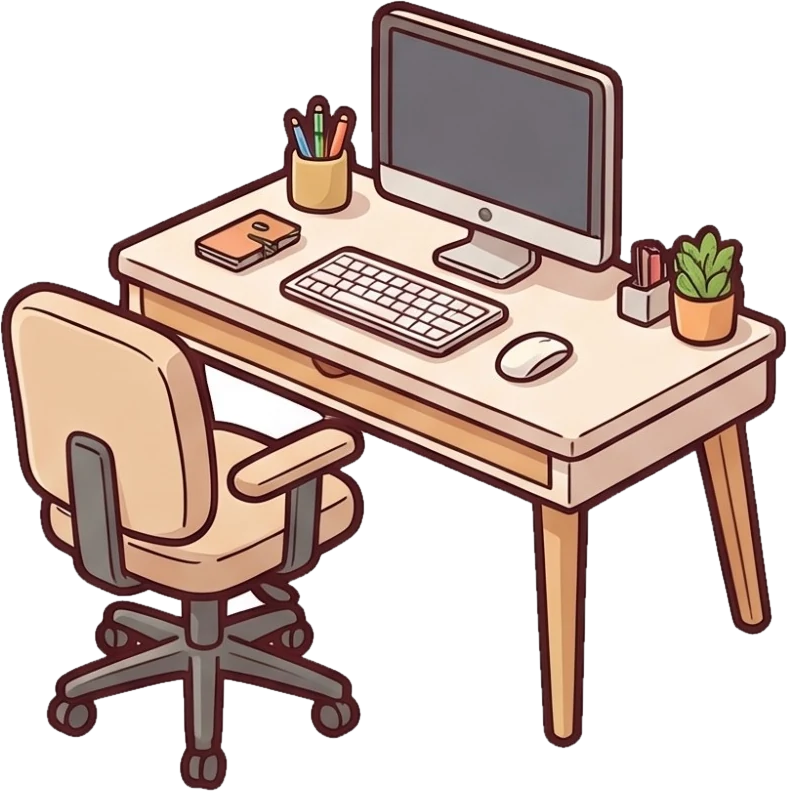
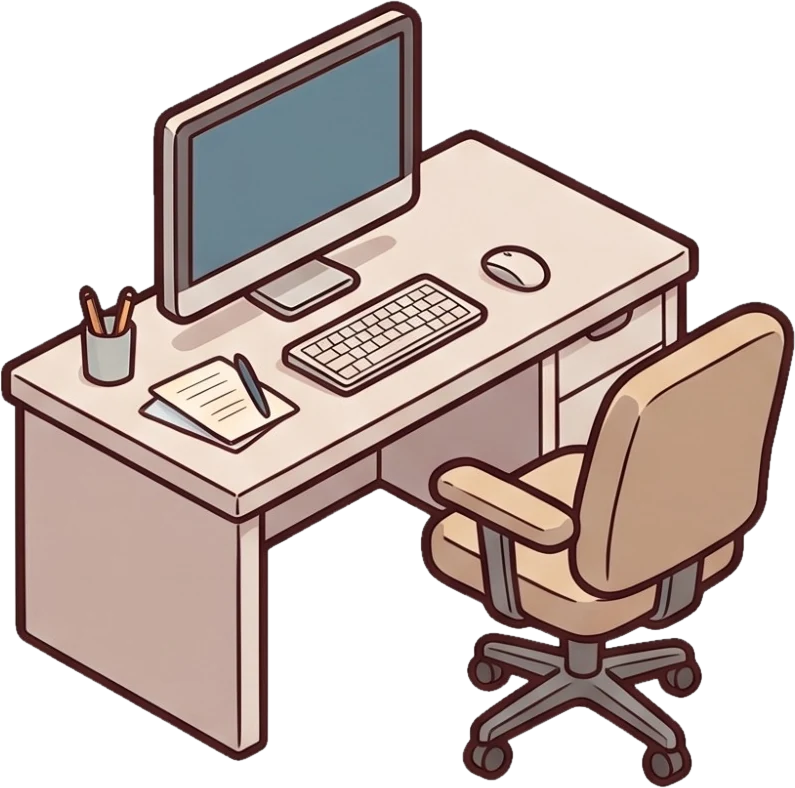
Replace desks with versions at the rooms' isometric angle
Claude-Session: https://claude.ai/code/session_015TUeBReSeCNS4tqX1Xf2b3

diff --git a/src/data/upgrades.js b/src/data/upgrades.js
@@ -25,9 +25,9 @@ export const ROOMS = [
   ] },
   { id: 'office', name: 'Home office', pic: 'room_office', bg: room('office_bg'), slots: [
     { id: 'desk', name: 'Desk', icon: '🖥', box: { x: 20, y: 38, w: 42, h: 48 }, levels: [
-      { name: 'Low table', cost: 0, img: room('desk_0'), size: 0.8 },
-      { name: 'Study desk', cost: 150_000, img: room('desk_1'), size: 0.78 },
-      { name: 'Desk with PC', cost: 600_000, img: room('desk_2'), size: 0.88 },
+      { name: 'Low table', cost: 0, img: room('desk_0'), size: 0.86 },
+      { name: 'Study desk', cost: 150_000, img: room('desk_1'), size: 0.86 },
+      { name: 'Desk with PC', cost: 600_000, img: room('desk_2'), size: 0.95 },
       { name: 'Executive desk', cost: 2_000_000, img: room('desk_3') } ] },
     { id: 'odeco', name: 'Corner', icon: '📚', box: { x: 60, y: 22, w: 18, h: 48 }, levels: [
       { name: 'Empty corner', cost: 0, img: null },
